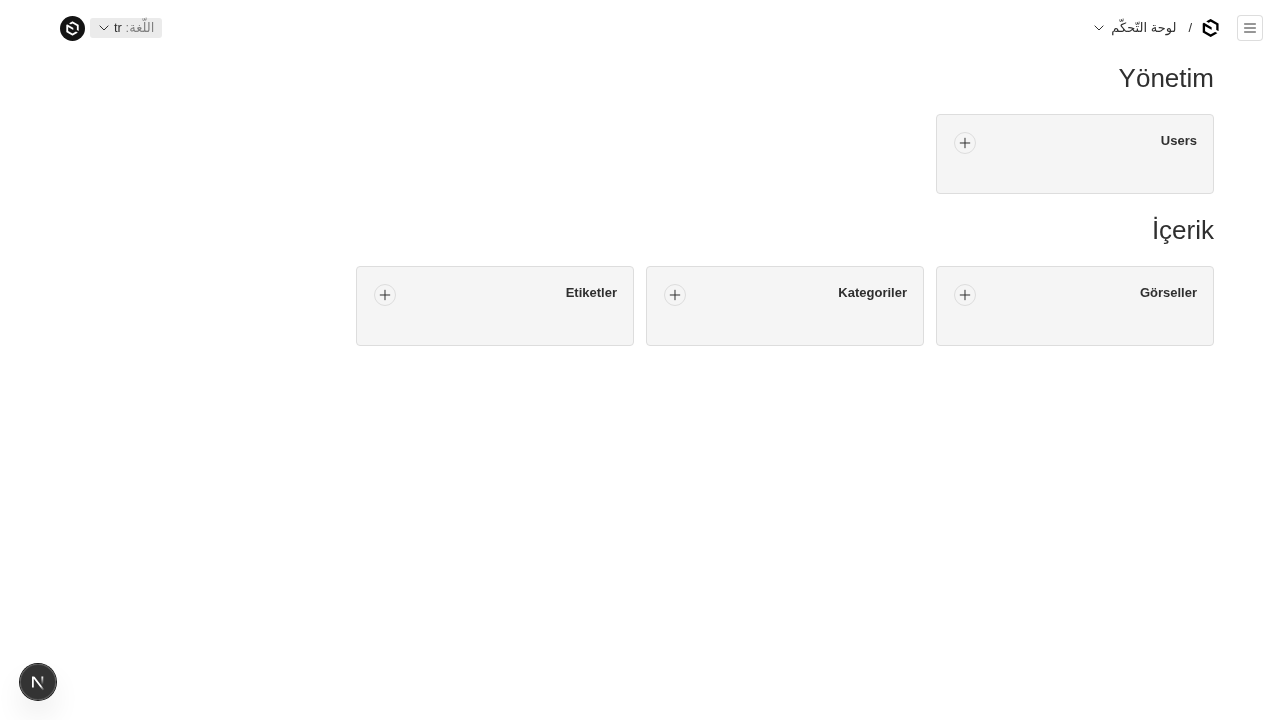
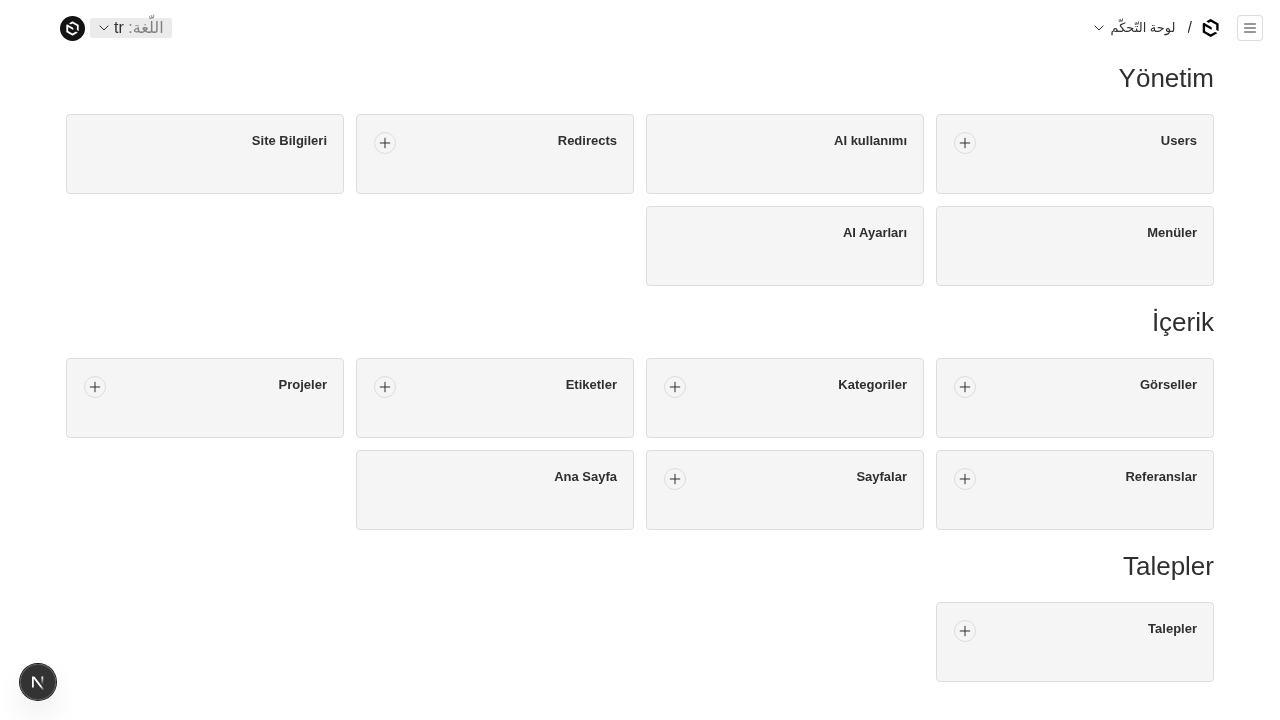
test(category): tolerate stale-while-revalidate on the services list (#38)

diff --git a/tests/e2e/category.e2e.spec.ts b/tests/e2e/category.e2e.spec.ts
@@ -91,10 +91,13 @@ test.describe('Category page', () => {
   })
 
   test('services page links the categories', async ({ page }) => {
-    await page.goto('/tr/hizmetlerimiz')
-    await expect(page.locator('h1')).toHaveText('Hizmetlerimiz')
-    await expect(page.locator(`main a[href="/tr/${full.tr}"]`)).toHaveCount(1)
-    await page.goto('/en/services')
-    await expect(page.locator(`main a[href="/en/${full.en}"]`)).toHaveCount(1)
+    // revalidateTag(..., 'max') is stale-while-revalidate: the first hit after a write may still serve the old list.
+    for (const [path, href] of [['/tr/hizmetlerimiz', `/tr/${full.tr}`], ['/en/services', `/en/${full.en}`]]) {
+      await expect(async () => {
+        await page.goto(path)
+        await expect(page.locator(`main a[href="${href}"]`)).toHaveCount(1, { timeout: 1000 })
+      }).toPass({ timeout: 15_000 })
+    }
+    await expect(page.locator('h1')).toHaveText('Our services')
   })
 })
